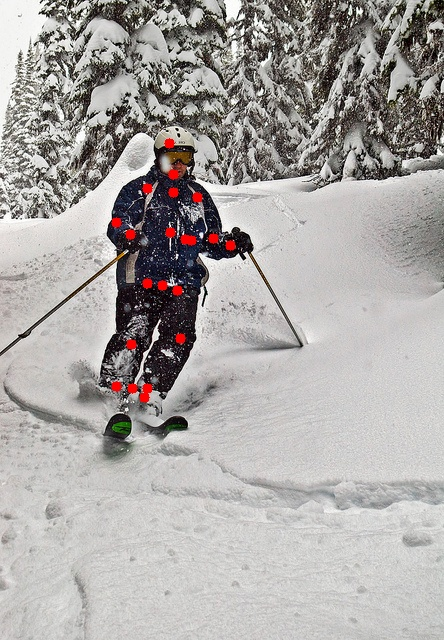
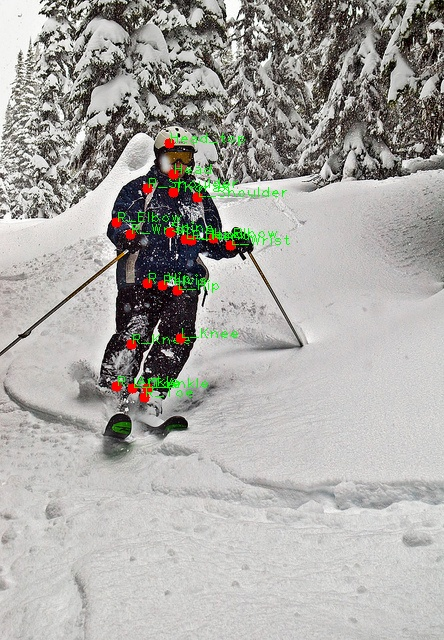
Change font.

diff --git a/main.py b/main.py
@@ -108,7 +108,7 @@ def main():
 
         for i in range(len(posenet_pred)):
             cv2.circle(im, (posenet_pred[i][0], posenet_pred[i][1]), 5, (0, 0, 255), -1)
-            cv2.putText(im, pipeline_cfg.joints_name[i], (posenet_pred[i][0], posenet_pred[i][1]), cv2.FONT_HERSHEY_PLAIN, 1, (0, 255, 0), 1)
+            cv2.putText(im, pipeline_cfg.joints_name[i], (posenet_pred[i][0], posenet_pred[i][1]), cv2.FONT_HERSHEY_TRIPLEX, 1, (0, 255, 0), 1)
     cv2.imwrite("output.jpg", im)
 
 if __name__ == "__main__":
